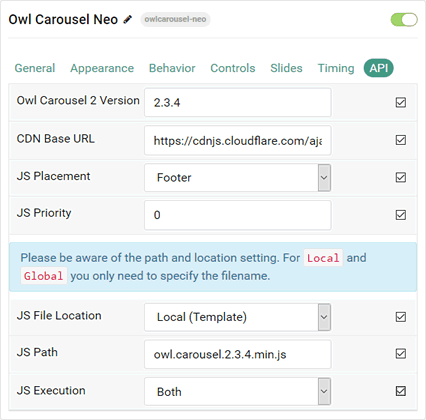
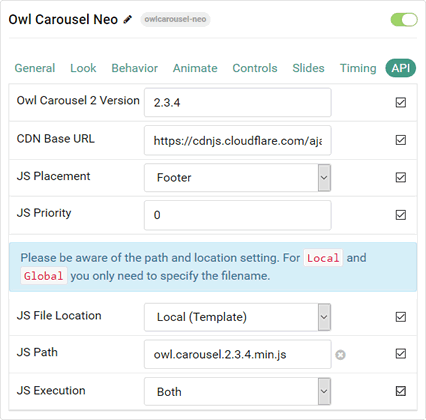
updated readme and screenshots

Changed region(s): [[0.1526, 0.1238, 0.9765, 0.1857], [0.7629, 0.8357, 0.8239, 0.8667]]

diff --git a/README.md b/README.md
@@ -107,35 +107,43 @@ Insight of the *Owl Carousel Neo - Gantry Particle* configuration:
 ![1](/screenshots/backend_general.png)
 
 
-**Backend (2)** - *[Appearance](/screenshots/backend_appearance.png)*
+**Backend (2)** - *[Look](/screenshots/backend_look.png)*
 
-![2](/screenshots/backend_appearance.png)
-
-
-**Backend (3)** - *[Behavior](/screenshots/backend_behavior.png)*
-
-![3](/screenshots/backend_behavior.png)
+![2](/screenshots/backend_look.png)
 
 
-**Backend (4)** - *[Controls](/screenshots/backend_controls.png)*
+**Backend (3)** - *[Behavior](/screenshots/backend_behavior_1.png)*
 
-![4](/screenshots/backend_controls.png)
+![3](/screenshots/backend_behavior_1.png)
 
-**Backend (5)** - *[Slides (1)](/screenshots/backend_slides1.png)*
 
-![5](/screenshots/backend_slides1.png)
+**Backend (4)** - *[Behavior Responsive](/screenshots/backend_behavior_2.png)*
 
-**Backend (6)** - *[Slides (2)](/screenshots/backend_slides2.png)*
+![4](/screenshots/backend_behavior_2.png)
 
-![6](/screenshots/backend_slides2.png)
+**Backend (5)** - *[Animate](/screenshots/backend_animate.png)*
 
-**Backend (7)** - *[Timing](/screenshots/backend_timing.png)*
+![5](/screenshots/backend_animate.png)
 
-![7](/screenshots/backend_timing.png)
+**Backend (6)** - *[Controls](/screenshots/backend_controls.png)*
 
-**Backend (8)** - *[API](/screenshots/backend_api.png)*
+![6](/screenshots/backend_controls.png)
 
-![8](/screenshots/backend_api.png)
+**Backend (7)** - *[Slides (1)](/screenshots/backend_slides1.png)*
+
+![7](/screenshots/backend_slides1.png)
+
+**Backend (8)** - *[Slides (2)](/screenshots/backend_slides2.png)*
+
+![8](/screenshots/backend_slides2.png)
+
+**Backend (9)** - *[Timing](/screenshots/backend_timing.png)*
+
+![9](/screenshots/backend_timing.png)
+
+**Backend (10)** - *[API](/screenshots/backend_api.png)*
+
+![10](/screenshots/backend_api.png)
 ___
 
 A few example configurations which show the new design of the Particle:
